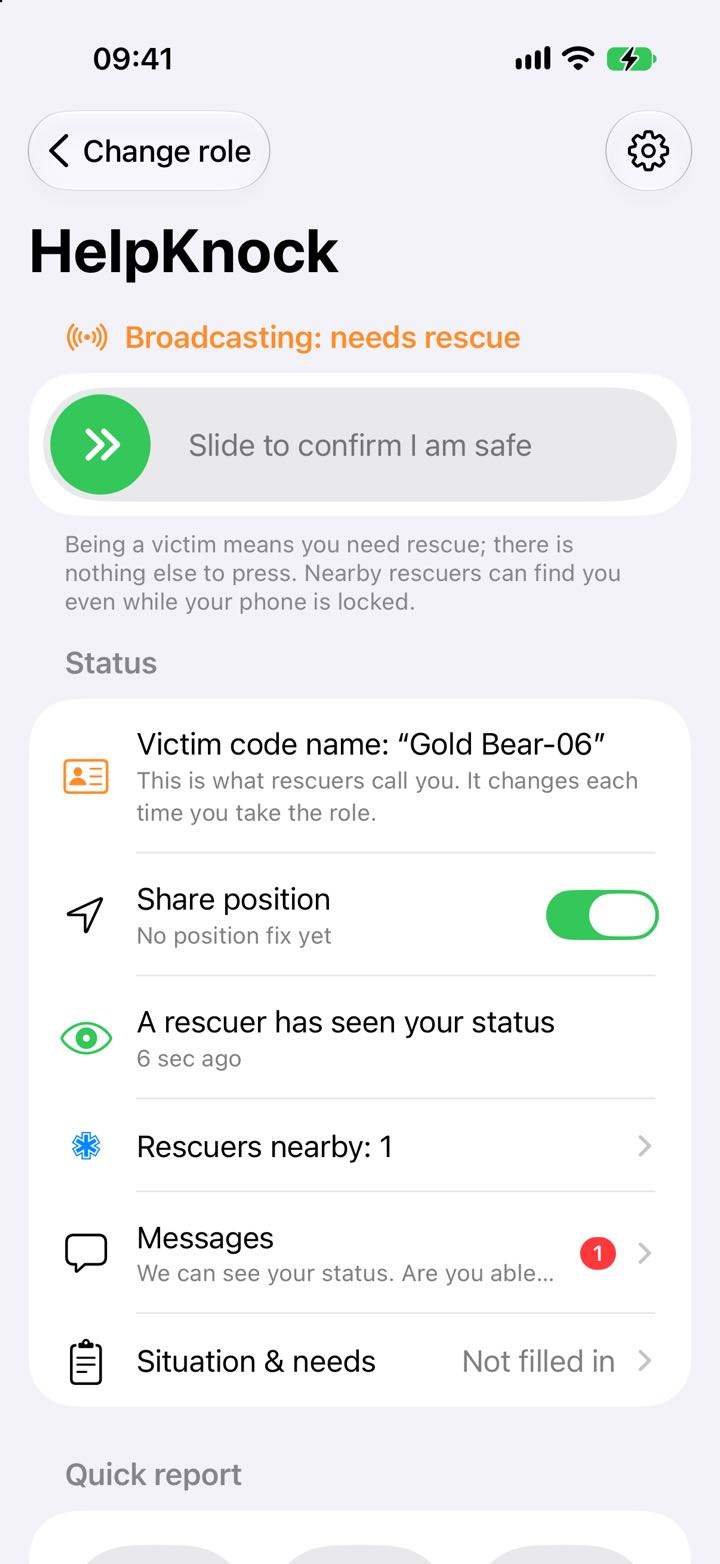
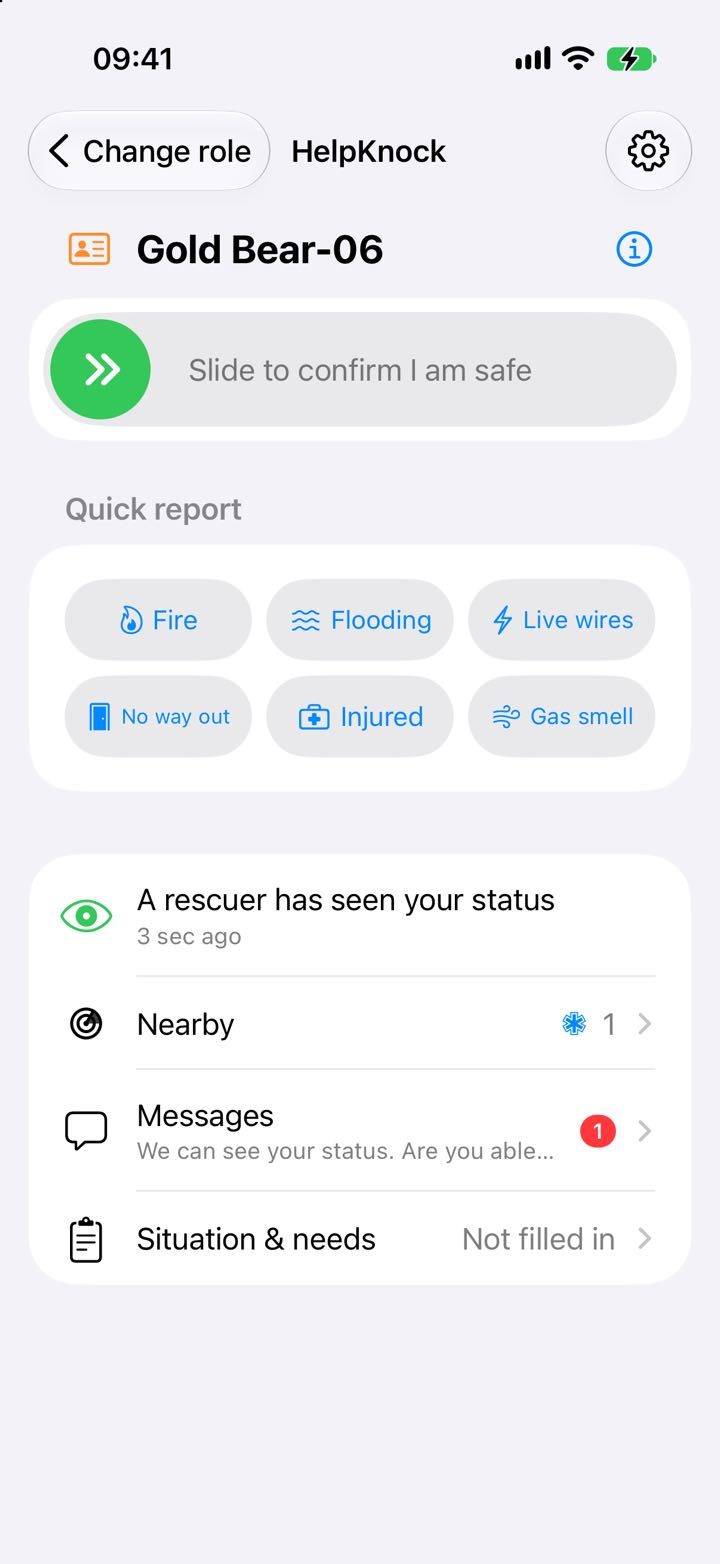
feat: HelpKnock pages follow the 1.1.2 home screen redesign
- Privacy policy in four languages regenerated from the app: position is
  shared while HelpKnock may use Location, with no switch in the app;
  last updated November 10, 2026 (policycheck identical in all four).
- Screenshots of the victim home, rescuer home and victim Nearby retaken
  in four languages with the redesigned screens.
- Alt text of the victim home no longer says it is broadcasting and lists
  the Quick report buttons; the rescuer home mentions the cards under the
  radar.

diff --git a/helpknock/privacy/ja/index.html b/helpknock/privacy/ja/index.html
@@ -23,7 +23,7 @@
   </header>
 
   <h2>プライバシーポリシー</h2>
-  <p class="meta">最終更新日：2026年11月6日</p>
+  <p class="meta">最終更新日：2026年11月10日</p>
   <p class="meta">翻訳と<a href="../" hreflang="en">英語版</a>の内容が異なる場合は、英語版を優先します。</p>
   <p class="lead">HelpKnockにはサーバーもアカウントもありません。入力した内容はあなたのスマートフォンにとどまり、Bluetoothで周辺のスマートフォンに、同じWi-Fiで救助者に送られるだけです。開発者に送られることはありません。</p>
 
@@ -36,7 +36,7 @@
   <p>HelpKnockの設定で「すべてのデータを消去」を行うと、上記のすべてが一度に消去されます。アプリを削除してもキーチェーンに残るデータも、これに含まれます。</p>
 
   <h3>Bluetoothで送信される情報</h3>
-  <p>どちらの役割でも、あなたのスマートフォンは、HelpKnockを使用している周辺のすべてのスマートフォンに向けて短いビーコンを発信します。内容は、ランダムなノードID、あなたの役割、無事を報告したかどうか、バッテリー残量、最後にスマートフォンを操作してからの経過時間（分単位）、あなたが設定した人数と周囲の危険です。「助けが必要です」の役割では、スマートフォンが動いていない時間も含まれます。個人情報で話す言語を設定した場合は、それも含まれます。位置の共有がオンの間は、スマートフォンが最後に取得した位置とその精度、取得からの経過時間も発信されます。位置の共有は役割を選ぶとデフォルトでオンになり、HelpKnockのホーム画面でオフにできます。</p>
+  <p>どちらの役割でも、あなたのスマートフォンは、HelpKnockを使用している周辺のすべてのスマートフォンに向けて短いビーコンを発信します。内容は、ランダムなノードID、あなたの役割、無事を報告したかどうか、バッテリー残量、最後にスマートフォンを操作してからの経過時間（分単位）、あなたが設定した人数と周囲の危険です。「助けが必要です」の役割では、スマートフォンが動いていない時間も含まれます。個人情報で話す言語を設定した場合は、それも含まれます。役割を選んでいる間は、HelpKnockに位置情報の利用を許可していれば、スマートフォンが最後に取得した位置とその精度、取得からの経過時間も発信されます。救助者が人を見つけたり、信号が届いている人をレーダーに表示したりするには位置が必要なため、HelpKnockには位置を発信しないようにするスイッチはありません。位置を発信したくない場合は、iPhoneの「設定」アプリで、HelpKnockの位置情報の利用をオフにしてください。</p>
   <p>「助けが必要です」の役割を選んでいる間、救助者の役割を選んだ周辺のスマートフォンは、あなたに接続して、「ほかの人に見える情報」でオンにした項目に加え、あなたの状況、必要なもの、およびバッテリーの減り方や最後にスマートフォンを操作してからの時間といったスマートフォンの状態を読み取ることができます。送られるのはこれらの項目だけです。救助者の役割を選んだ周辺の人なら誰でもこれらを読み取ることができ、アプリは相手が誰なのかを確認できません。</p>
   <p>救助者の役割では、あなたが入力した所属、コールサイン、対応できることは、助けを求めている人を含め、HelpKnockを使用している周辺のすべてのスマートフォンから読み取ることができます。これは、あなたが誰だと名乗っているのかが相手にわかるようにするためです。あなたのマークとメッセージは、範囲内のほかの救助者に共有されます。</p>
   <p>メッセージも共有されます。「助けが必要です」の役割で書いた内容は周辺のすべての救助者に届き、救助者どうしで中継されるため、救助者それぞれのスマートフォンにコピーが残ります。救助者があなたに書いた内容も、同じように中継されます。</p>

diff --git a/helpknock/privacy/ko/index.html b/helpknock/privacy/ko/index.html
@@ -23,7 +23,7 @@
   </header>
 
   <h2>개인정보 처리방침</h2>
-  <p class="meta">최종 업데이트: 2026년 11월 6일</p>
+  <p class="meta">최종 업데이트: 2026년 11월 10일</p>
   <p class="meta">번역본과 <a href="../" hreflang="en">영어판</a>의 내용이 다를 경우 영어판이 우선합니다.</p>
   <p class="lead">HelpKnock에는 서버도 계정도 없습니다. 입력한 내용은 휴대폰에 저장되며, Bluetooth로 주변 휴대폰에, 같은 Wi-Fi로 구조자에게 전달될 뿐, 개발자에게는 절대 전송되지 않습니다.</p>
 
@@ -36,7 +36,7 @@
   <p>HelpKnock 설정에서 “모든 데이터 지우기”를 실행하면 위의 정보가 한 번에 모두 삭제됩니다. 앱을 삭제해도 키체인에 남아 있는 정보도 여기에 포함됩니다.</p>
 
   <h3>Bluetooth로 전송되는 정보</h3>
-  <p>어느 역할이든 휴대폰은 HelpKnock을 실행 중인 주변의 모든 휴대폰에 짧은 비콘 신호를 발신합니다. 이 신호에는 무작위 노드 ID, 역할, 안전하다고 알렸는지 여부, 배터리 잔량, 마지막으로 휴대폰을 만진 후 지난 시간(분), 이용자가 설정한 인원과 위험 요소가 포함됩니다. “도움이 필요합니다” 역할에서는 휴대폰이 움직이지 않은 시간도 포함됩니다. 개인 정보에서 사용하는 언어를 설정한 경우 그 언어도 포함됩니다. 위치 공유가 켜져 있는 동안에는 마지막으로 파악된 휴대폰 위치와 그 정확도, 위치를 파악한 지 얼마나 지났는지도 포함됩니다. 위치 공유는 역할을 시작하면 기본으로 켜지며 HelpKnock 홈 화면에서 끌 수 있습니다.</p>
+  <p>어느 역할이든 휴대폰은 HelpKnock을 실행 중인 주변의 모든 휴대폰에 짧은 비콘 신호를 발신합니다. 이 신호에는 무작위 노드 ID, 역할, 안전하다고 알렸는지 여부, 배터리 잔량, 마지막으로 휴대폰을 만진 후 지난 시간(분), 이용자가 설정한 인원과 위험 요소가 포함됩니다. “도움이 필요합니다” 역할에서는 휴대폰이 움직이지 않은 시간도 포함됩니다. 개인 정보에서 사용하는 언어를 설정한 경우 그 언어도 포함됩니다. HelpKnock에 위치 접근을 허용했다면, 역할을 맡고 있는 동안에는 마지막으로 파악된 휴대폰 위치와 그 정확도, 위치를 파악한 지 얼마나 지났는지도 포함됩니다. 구조자가 사람을 찾고, 신호가 잡힌 사람을 레이더에 표시하려면 위치가 필요하므로 HelpKnock에는 위치를 보내지 않게 하는 스위치가 없습니다. 위치를 보내고 싶지 않다면 iPhone의 “설정” 앱에서 HelpKnock의 위치 접근을 끄세요.</p>
   <p>“도움이 필요합니다” 역할을 사용하는 동안, 구조자 역할을 사용 중인 주변 휴대폰은 이용자의 휴대폰에 연결하여 “다른 사람에게 보이는 정보”에서 켠 항목과 함께 현황, 필요 사항, 그리고 배터리 소모 추이나 마지막으로 휴대폰을 만진 후 지난 시간 같은 자동 감지 정보를 읽을 수 있습니다. 이 항목만 전송됩니다. 구조자 역할을 선택한 주변 사람은 누구나 이를 읽을 수 있으며, 앱은 그 사람이 누구인지 확인할 수 없습니다.</p>
   <p>구조자 역할에서는 이용자가 입력한 소속, 호출부호, 가능한 지원을 HelpKnock을 실행 중인 주변의 모든 휴대폰이 읽을 수 있습니다. 여기에는 도움을 요청하는 사람도 포함되며, 이는 이용자가 자신을 누구라고 밝혔는지 상대방이 볼 수 있게 하기 위한 것입니다. 이용자의 표시와 메시지는 범위 내 다른 구조자와 공유됩니다.</p>
   <p>메시지도 공유됩니다. “도움이 필요합니다” 역할에서 작성한 메시지는 주변의 모든 구조자에게 전달되고 구조자끼리 서로 중계하므로, 각 구조자의 휴대폰에 사본이 남습니다. 구조자가 이용자에게 보낸 메시지도 같은 방식으로 중계됩니다.</p>

diff --git a/helpknock/privacy/index.html b/helpknock/privacy/index.html
@@ -24,7 +24,7 @@
   </header>
 
   <h2>Privacy Policy</h2>
-  <p class="meta">Last updated: November 6, 2026</p>
+  <p class="meta">Last updated: November 10, 2026</p>
   <p class="lead">HelpKnock has no server and no account: what you enter stays on your phone and goes only to phones nearby over Bluetooth, and to rescuers on the same Wi-Fi, never to the developer.</p>
 
   <h3>What HelpKnock collects</h3>
@@ -36,7 +36,7 @@
   <p>Erasing all data in HelpKnock's Settings removes all of the above at once, including what deleting the app leaves behind in the keychain.</p>
 
   <h3>What is sent over Bluetooth</h3>
-  <p>In either role, your phone broadcasts a short beacon to every phone nearby running HelpKnock. It contains a random node ID, your role, whether you have reported yourself safe, your battery level, minutes since you last touched the phone, and the headcount and hazards you set. In the “I need help” role, it also contains how long the phone has been still. If you set the language you speak in your details, that is included too. While position sharing is on, the beacon also carries the phone's last known position with its accuracy and age; sharing is on by default when you take a role, and you can switch it off on HelpKnock's home screen.</p>
+  <p>In either role, your phone broadcasts a short beacon to every phone nearby running HelpKnock. It contains a random node ID, your role, whether you have reported yourself safe, your battery level, minutes since you last touched the phone, and the headcount and hazards you set. In the “I need help” role, it also contains how long the phone has been still. If you set the language you speak in your details, that is included too. While you are in a role, the beacon also carries the phone's last known position with its accuracy and age, if you have allowed HelpKnock to use Location. There is no switch in HelpKnock to leave it out, because rescuers need it to find people and to place what they hear. To keep your position out of the beacon, turn off Location for HelpKnock in the iPhone Settings app.</p>
   <p>While you are in the “I need help” role, a nearby phone in the rescuer role can connect and read the fields you turned on in “What others can see”, plus your situation, needs and passive signals such as battery trend and time since you last touched the phone. Only those fields are sent. Anyone nearby who chose the rescuer role can read them; the app cannot verify who they are.</p>
   <p>In the rescuer role, the unit, callsign and capabilities you entered can be read by every phone nearby running HelpKnock, including people asking for help, so they can see who you say you are. Your marks and messages are shared with other rescuers in range.</p>
   <p>Messages are shared too. What you write in the “I need help” role reaches every rescuer nearby, and rescuers pass it on to each other, so each of their phones keeps a copy. What rescuers write to you is passed on the same way.</p>

diff --git a/helpknock/privacy/zh-Hant/index.html b/helpknock/privacy/zh-Hant/index.html
@@ -23,7 +23,7 @@
   </header>
 
   <h2>隱私權政策</h2>
-  <p class="meta">最後更新：2026 年 11 月 6 日</p>
+  <p class="meta">最後更新：2026 年 11 月 10 日</p>
   <p class="lead">HelpKnock 沒有伺服器、沒有帳號：你輸入的資料留在你的手機上，只會透過藍牙傳給附近的手機、經由同一個 Wi-Fi 傳給救援者，不會送到開發者那裡。</p>
 
   <h3>HelpKnock 收集哪些資料</h3>
@@ -35,7 +35,7 @@
   <p>HelpKnock 設定裡的「清除所有資料」會把上面這些一次清掉，包括刪除 app 也不會消失的鑰匙圈資料。</p>
 
   <h3>透過藍牙送出什麼</h3>
-  <p>不論哪種角色，你的手機都會向附近每一支跑著 HelpKnock 的手機廣播一段簡短訊號，內容有：隨機的節點 ID、你的角色、是否已回報安全、電量、多久沒碰手機，以及你設定的在場人數與周遭危險。在「我需要幫助」角色裡，還會加上手機多久沒動。如果你在資料裡填了慣用語言，也會一起送出。分享位置開著的時候，訊號裡還有手機最後一次定位的位置、這個位置的精確度，以及是多久以前定位的；進入角色時預設開啟，可以在 HelpKnock 的首頁關掉。</p>
+  <p>不論哪種角色，你的手機都會向附近每一支跑著 HelpKnock 的手機廣播一段簡短訊號，內容有：隨機的節點 ID、你的角色、是否已回報安全、電量、多久沒碰手機，以及你設定的在場人數與周遭危險。在「我需要幫助」角色裡，還會加上手機多久沒動。如果你在資料裡填了慣用語言，也會一起送出。在角色裡的時候，只要你允許 HelpKnock 使用定位，訊號裡就會有手機最後一次定位的位置、這個位置的精確度，以及是多久以前定位的。HelpKnock 裡沒有把位置拿掉的開關，因為救援者要靠位置找人，也要靠它把聽到的人畫上雷達。不想讓位置放進訊號，請到 iPhone 的「設定」App 關掉 HelpKnock 的定位權限。</p>
   <p>在「我需要幫助」角色時，附近選了救援者角色的手機可以連上來讀你在「別人可以看到什麼」裡打開的欄位，加上你的現況、需求與被動訊號（例如耗電趨勢、距上次觸碰手機多久）。只送這些。附近任何選了救援者角色的人都讀得到；app 無法驗證對方是誰。</p>
   <p>在救援者角色時，你填的單位、隊呼、專長，附近每一支開著 HelpKnock 的手機都讀得到，包括需要幫助的人，讓他們知道你自稱是誰。你的標記與訊息會分享給範圍內的其他救援者。</p>
   <p>訊息也會分享出去。你在「我需要幫助」角色寫的訊息，附近每一位救援者都收得到，救援者之間還會互相轉交，所以每位救援者的手機上都會留一份。救援者寫給你的訊息也是這樣轉交的。</p>

diff --git a/helpknock/ja/index.html b/helpknock/ja/index.html
@@ -47,7 +47,7 @@
         <p class="fineprint">無料 · iPhoneとiPad · iOS 18.6以降</p>
         <p class="emergency">HelpKnockは緊急通報サービスの代わりにはなりません。少しでも電波があれば、まず今いる国や地域の緊急通報サービスに電話してください。</p>
       </div>
-      <img class="phone" src="../screenshots/ja-01-victim.jpg" width="720" height="1564" alt="助けが必要な人の画面：ビーコンを発信中のHelpKnock。無事を知らせるスライダーと、救助者が状態を確認したことを示す表示。">
+      <img class="phone" src="../screenshots/ja-01-victim.jpg" width="720" height="1564" alt="助けが必要な人のホーム画面：無事を知らせるスライダー、「かんたん報告」のボタン、救助者が状態を確認したことを示す表示。">
     </div>
   </div>
 </header>
@@ -116,7 +116,7 @@
           <li>アプリを開いている間は、同じWi-Fiやインターネット共有につながっている救助者どうしで、各自が受信しているビーコン、「対応します」のマーク、メッセージも共有し、つながっている救助者全員が確認できます。</li>
         </ul>
       </div>
-      <img class="phone" src="../screenshots/ja-02-rescuer.jpg" width="720" height="1564" loading="lazy" alt="救助者の「周辺」画面：周囲のビーコンを信号の強さごとの輪で示したレーダー。">
+      <img class="phone" src="../screenshots/ja-02-rescuer.jpg" width="720" height="1564" loading="lazy" alt="救助者の「周辺」画面：周囲のビーコンを信号の強さごとの輪で示したレーダーと、その下に並ぶ、一人につき1枚のカード。">
     </div>
     <div class="wrap">
       <div class="video video-after">

diff --git a/helpknock/ko/index.html b/helpknock/ko/index.html
@@ -47,7 +47,7 @@
         <p class="fineprint">무료 · iPhone 및 iPad · iOS 18.6 이상</p>
         <p class="emergency">HelpKnock은 긴급 서비스를 대체할 수 없습니다. 휴대폰 신호가 조금이라도 잡히면 먼저 지금 있는 곳의 긴급 전화번호로 전화하세요.</p>
       </div>
-      <img class="phone" src="../screenshots/ko-01-victim.jpg" width="720" height="1564" alt="도움이 필요한 사람의 화면: 신호를 발신 중인 HelpKnock. 안전하다고 알리는 슬라이더와 구조자가 상태를 확인했다는 표시.">
+      <img class="phone" src="../screenshots/ko-01-victim.jpg" width="720" height="1564" alt="도움이 필요한 사람의 홈 화면: 안전하다고 알리는 슬라이더, “빠른 알림” 버튼, 구조자가 상태를 확인했다는 표시.">
     </div>
   </div>
 </header>
@@ -116,7 +116,7 @@
           <li>앱이 열려 있는 동안에는 같은 Wi-Fi나 개인용 핫스팟에 연결된 구조자끼리 각자 수신한 비콘, “제가 맡겠습니다” 표시, 메시지도 공유하므로 연결된 구조자 모두가 볼 수 있습니다.</li>
         </ul>
       </div>
-      <img class="phone" src="../screenshots/ko-02-rescuer.jpg" width="720" height="1564" loading="lazy" alt="구조자의 “주변” 화면: 주변 비콘을 신호 세기별 원으로 나타낸 레이더.">
+      <img class="phone" src="../screenshots/ko-02-rescuer.jpg" width="720" height="1564" loading="lazy" alt="구조자의 “주변” 화면: 주변 비콘을 신호 세기별 원으로 나타낸 레이더와, 그 아래에 한 사람당 한 장씩 나오는 카드.">
     </div>
     <div class="wrap">
       <div class="video video-after">

diff --git a/helpknock/zh-Hant/index.html b/helpknock/zh-Hant/index.html
@@ -47,7 +47,7 @@
         <p class="fineprint">免費 · iPhone 與 iPad · iOS 18.6 以上</p>
         <p class="emergency">HelpKnock 不能取代緊急服務。只要手機還有一點訊號，就請先撥打當地的緊急求救電話。</p>
       </div>
-      <img class="phone" src="../screenshots/zh-Hant-01-victim.jpg" width="720" height="1564" alt="HelpKnock 正在為需要幫助的人廣播，有滑動確認安全的滑桿，也顯示有救援者看到了你的狀態。">
+      <img class="phone" src="../screenshots/zh-Hant-01-victim.jpg" width="720" height="1564" alt="需要幫助的人的首頁：滑動確認安全的滑桿、「快速回報」按鈕，以及「有救援者看到你的狀態了」的提示。">
     </div>
   </div>
 </header>
@@ -116,7 +116,7 @@
           <li>app 開著的時候，連在同一個 Wi-Fi 或個人熱點的救援者還會互相分享各自聽到的人、標記與訊息，連上的救援者都看得到。</li>
         </ul>
       </div>
-      <img class="phone" src="../screenshots/zh-Hant-02-rescuer.jpg" width="720" height="1564" loading="lazy" alt="救援者的「附近」：依訊號強弱畫成一圈圈的雷達，標出周圍的燈塔。">
+      <img class="phone" src="../screenshots/zh-Hant-02-rescuer.jpg" width="720" height="1564" loading="lazy" alt="救援者的「附近」：依訊號強弱畫成一圈圈的雷達，標出周圍的燈塔，下面是每個人的卡片。">
     </div>
     <div class="wrap">
       <div class="video video-after">

diff --git a/helpknock/index.html b/helpknock/index.html
@@ -47,7 +47,7 @@
         <p class="fineprint">Free · iPhone and iPad · iOS 18.6 or later</p>
         <p class="emergency">Not a replacement for emergency services. If you have any signal, call your local emergency number first.</p>
       </div>
-      <img class="phone" src="screenshots/en-01-victim.jpg" width="720" height="1564" alt="HelpKnock broadcasting for a person who needs help, with a slider to confirm they are safe and a note that a rescuer has seen their status.">
+      <img class="phone" src="screenshots/en-01-victim.jpg" width="720" height="1564" alt="The home screen for a person who needs help: a slider to confirm they are safe, Quick report buttons, and a note that a rescuer has seen their status.">
     </div>
   </div>
 </header>
@@ -116,7 +116,7 @@
           <li>While the app is open, rescuers on the same Wi-Fi or phone hotspot also share who they hear, marks and messages, so every connected rescuer sees what each one's Bluetooth picks up.</li>
         </ul>
       </div>
-      <img class="phone" src="screenshots/en-02-rescuer.jpg" width="720" height="1564" loading="lazy" alt="The rescuer's Nearby screen: a radar of the beacons around, ringed by signal strength.">
+      <img class="phone" src="screenshots/en-02-rescuer.jpg" width="720" height="1564" loading="lazy" alt="The rescuer's Nearby screen: a radar of the beacons around, ringed by signal strength, with a card for each person below it.">
     </div>
     <div class="wrap">
       <div class="video video-after">
